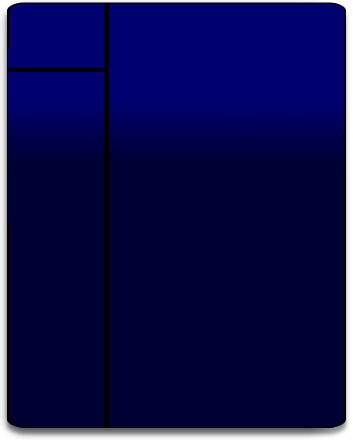
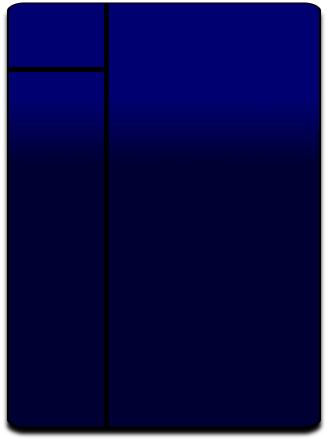
fixed size, controls

Changed region(s): [[0.0, 0.0, 1.0, 0.9933]]

diff --git a/Tetris/default.py b/Tetris/default.py
@@ -266,8 +266,8 @@ class Tetris(xbmcgui.WindowDialog):
 		self.blockSize = 17
 		self.spacing = 3
 		self.blockX = 400
-		self.blockY = 50
-		self.addControl(xbmcgui.ControlImage(self.blockX-117,self.blockY-20,353,445, ROOT_DIR+'images\\background.png'))
+		self.blockY = 70
+		self.addControl(xbmcgui.ControlImage(self.blockX-111,self.blockY-20,320,445, ROOT_DIR+'images\\background.png'))
 		self.imgBlocks = []
 		self.imgPiece = []
 		self.imgNextPiece = []
@@ -408,19 +408,19 @@ class Tetris(xbmcgui.WindowDialog):
  		elif action == ACTION_MOVE_RIGHT:
  			controller.movePiece(1)
  		elif action == ACTION_MOVE_UP:
- 			controller.rotatePiece(1)
- 		elif action == ACTION_MOVE_DOWN:
- 			controller.rotatePiece(-1)
- 		elif action == ACTION_SELECT_ITEM:
+ 			event,rows = controller.quickDrop(fromGround=2)
+ 		elif action == ACTION_MOVE_DOWN or action == ACTION_SELECT_ITEM:
  			event,rows = controller.quickDrop(fromGround=0)
 			if rows == 0 and not event == EVENT_GAME_OVER:
 				xbmc.playSFX(ROOT_DIR+"sounds\\bigdrop.wav")
  		elif action == ACTION_SHOW_GUI:
- 			event,rows = controller.quickDrop(fromGround=2)
-		elif action == ACTION_SCROLL_UP:
-			event,rows = controller.dropPiece()
+			controller.rotatePiece(-1)
+		#elif action == ACTION_SCROLL_UP:
+		#	event,rows = controller.dropPiece()
  			
-  		elif action == ACTION_PARENT_DIR or action == ACTION_PREVIOUS_MENU:
+  		elif action == ACTION_PARENT_DIR:
+			controller.rotatePiece(1)
+		elif action == ACTION_PREVIOUS_MENU:
 			LOG('OA2: lock released')
 			lock.release()
 			self.close()
@@ -456,7 +456,7 @@ class Tetris(xbmcgui.WindowDialog):
 
 lock = threading.Lock()
 random.seed()
-board = Board(11,20)
+board = Board(10,20)
 controller = BoardController(board)
 t = Tetris()
 t.setController(controller)
